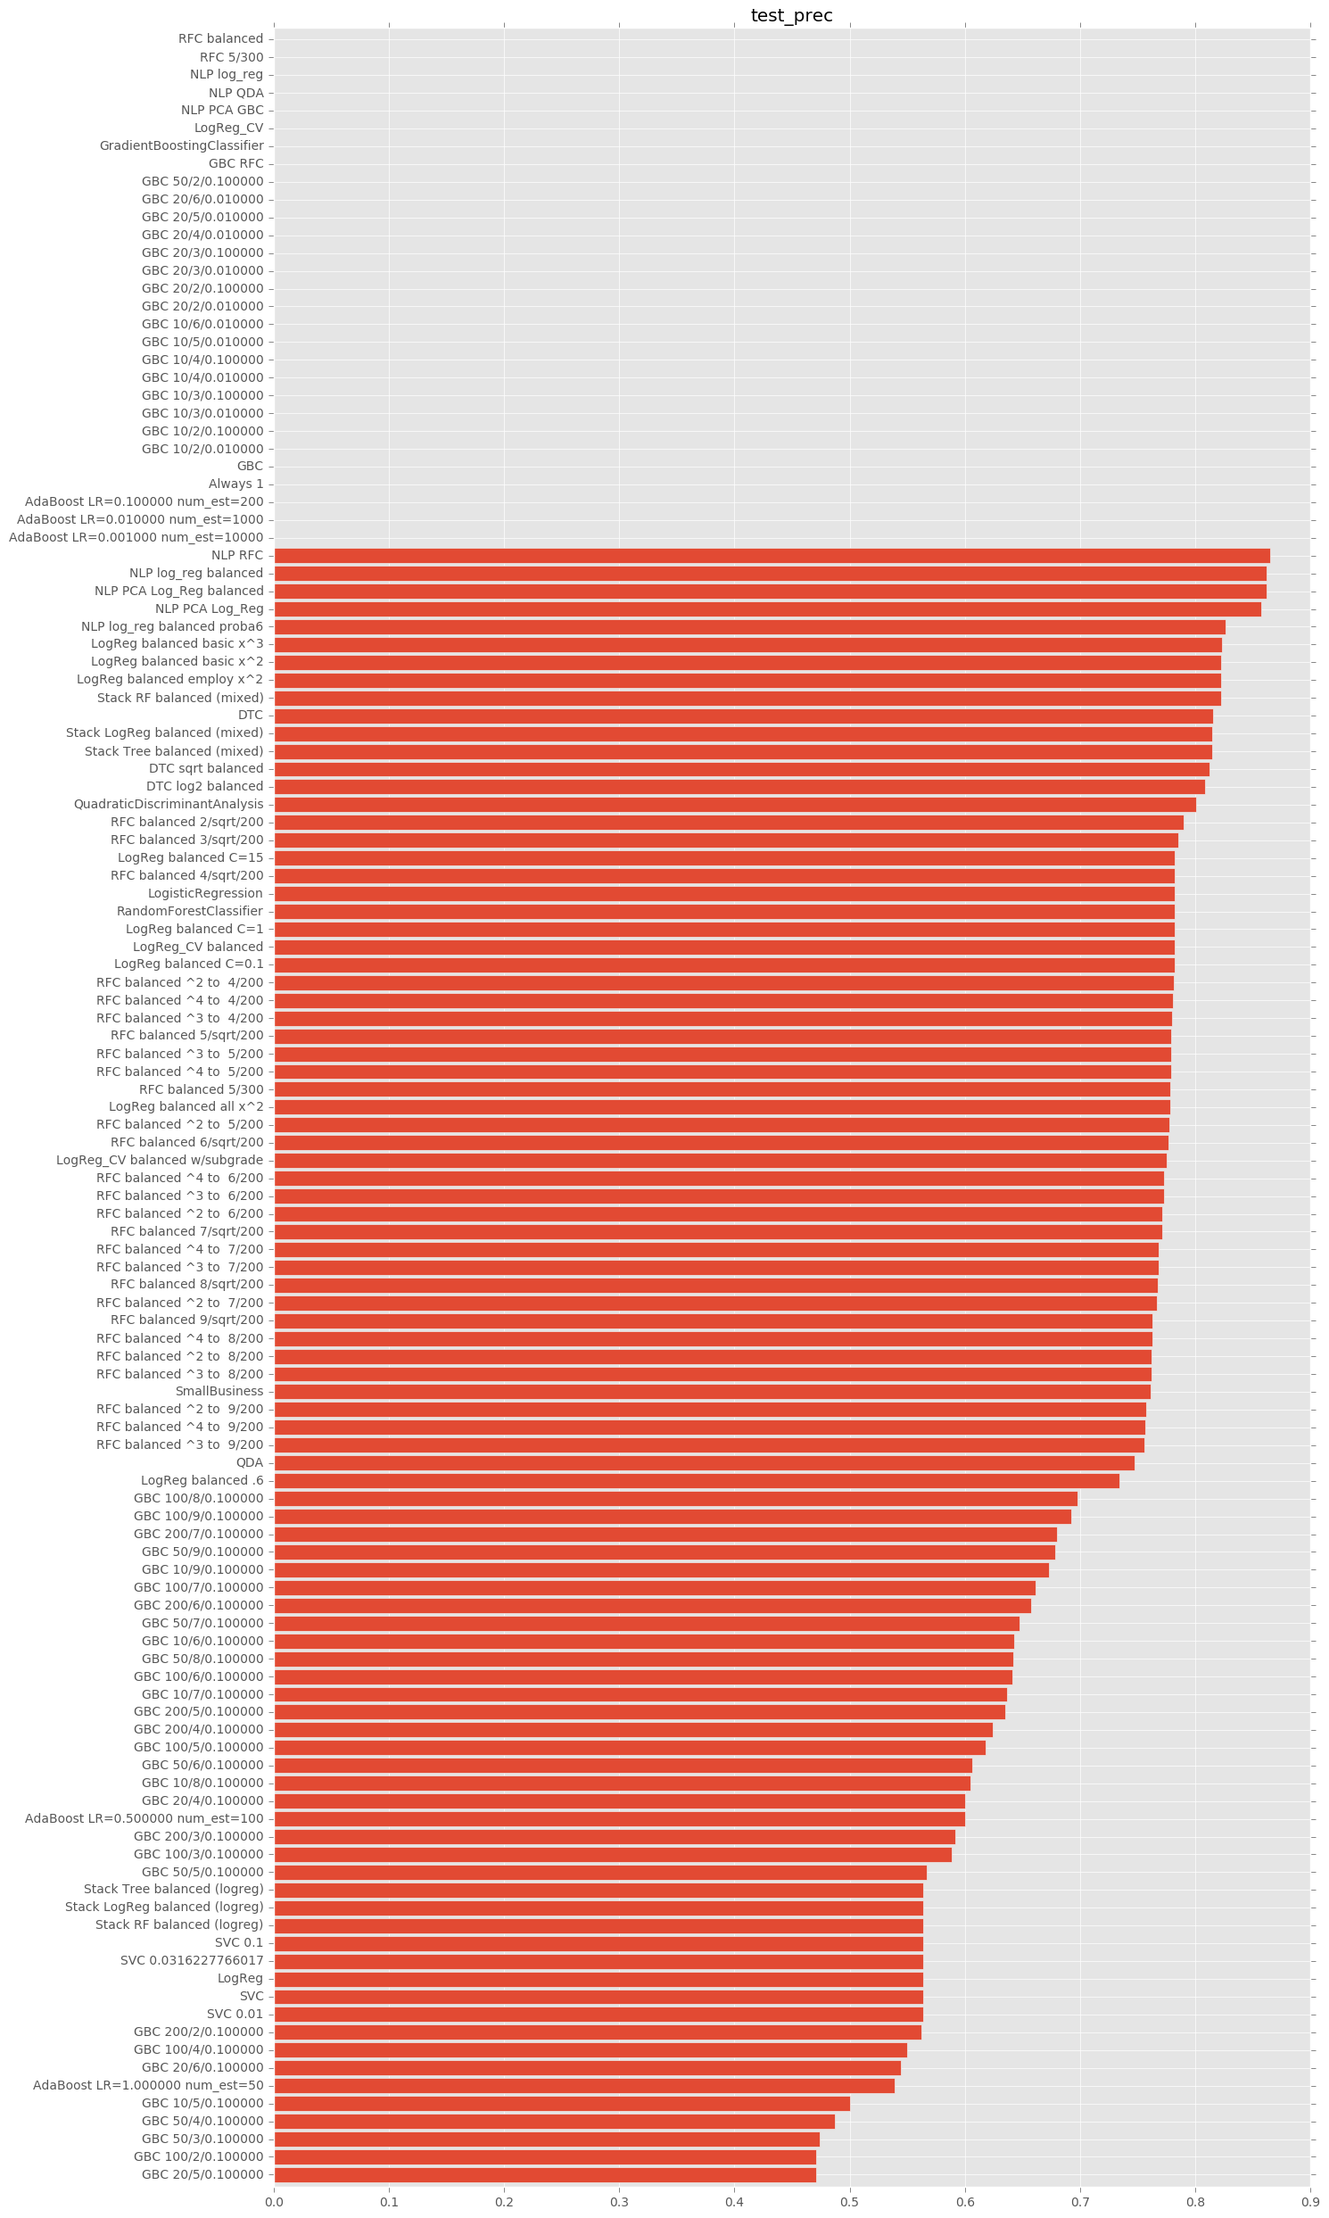
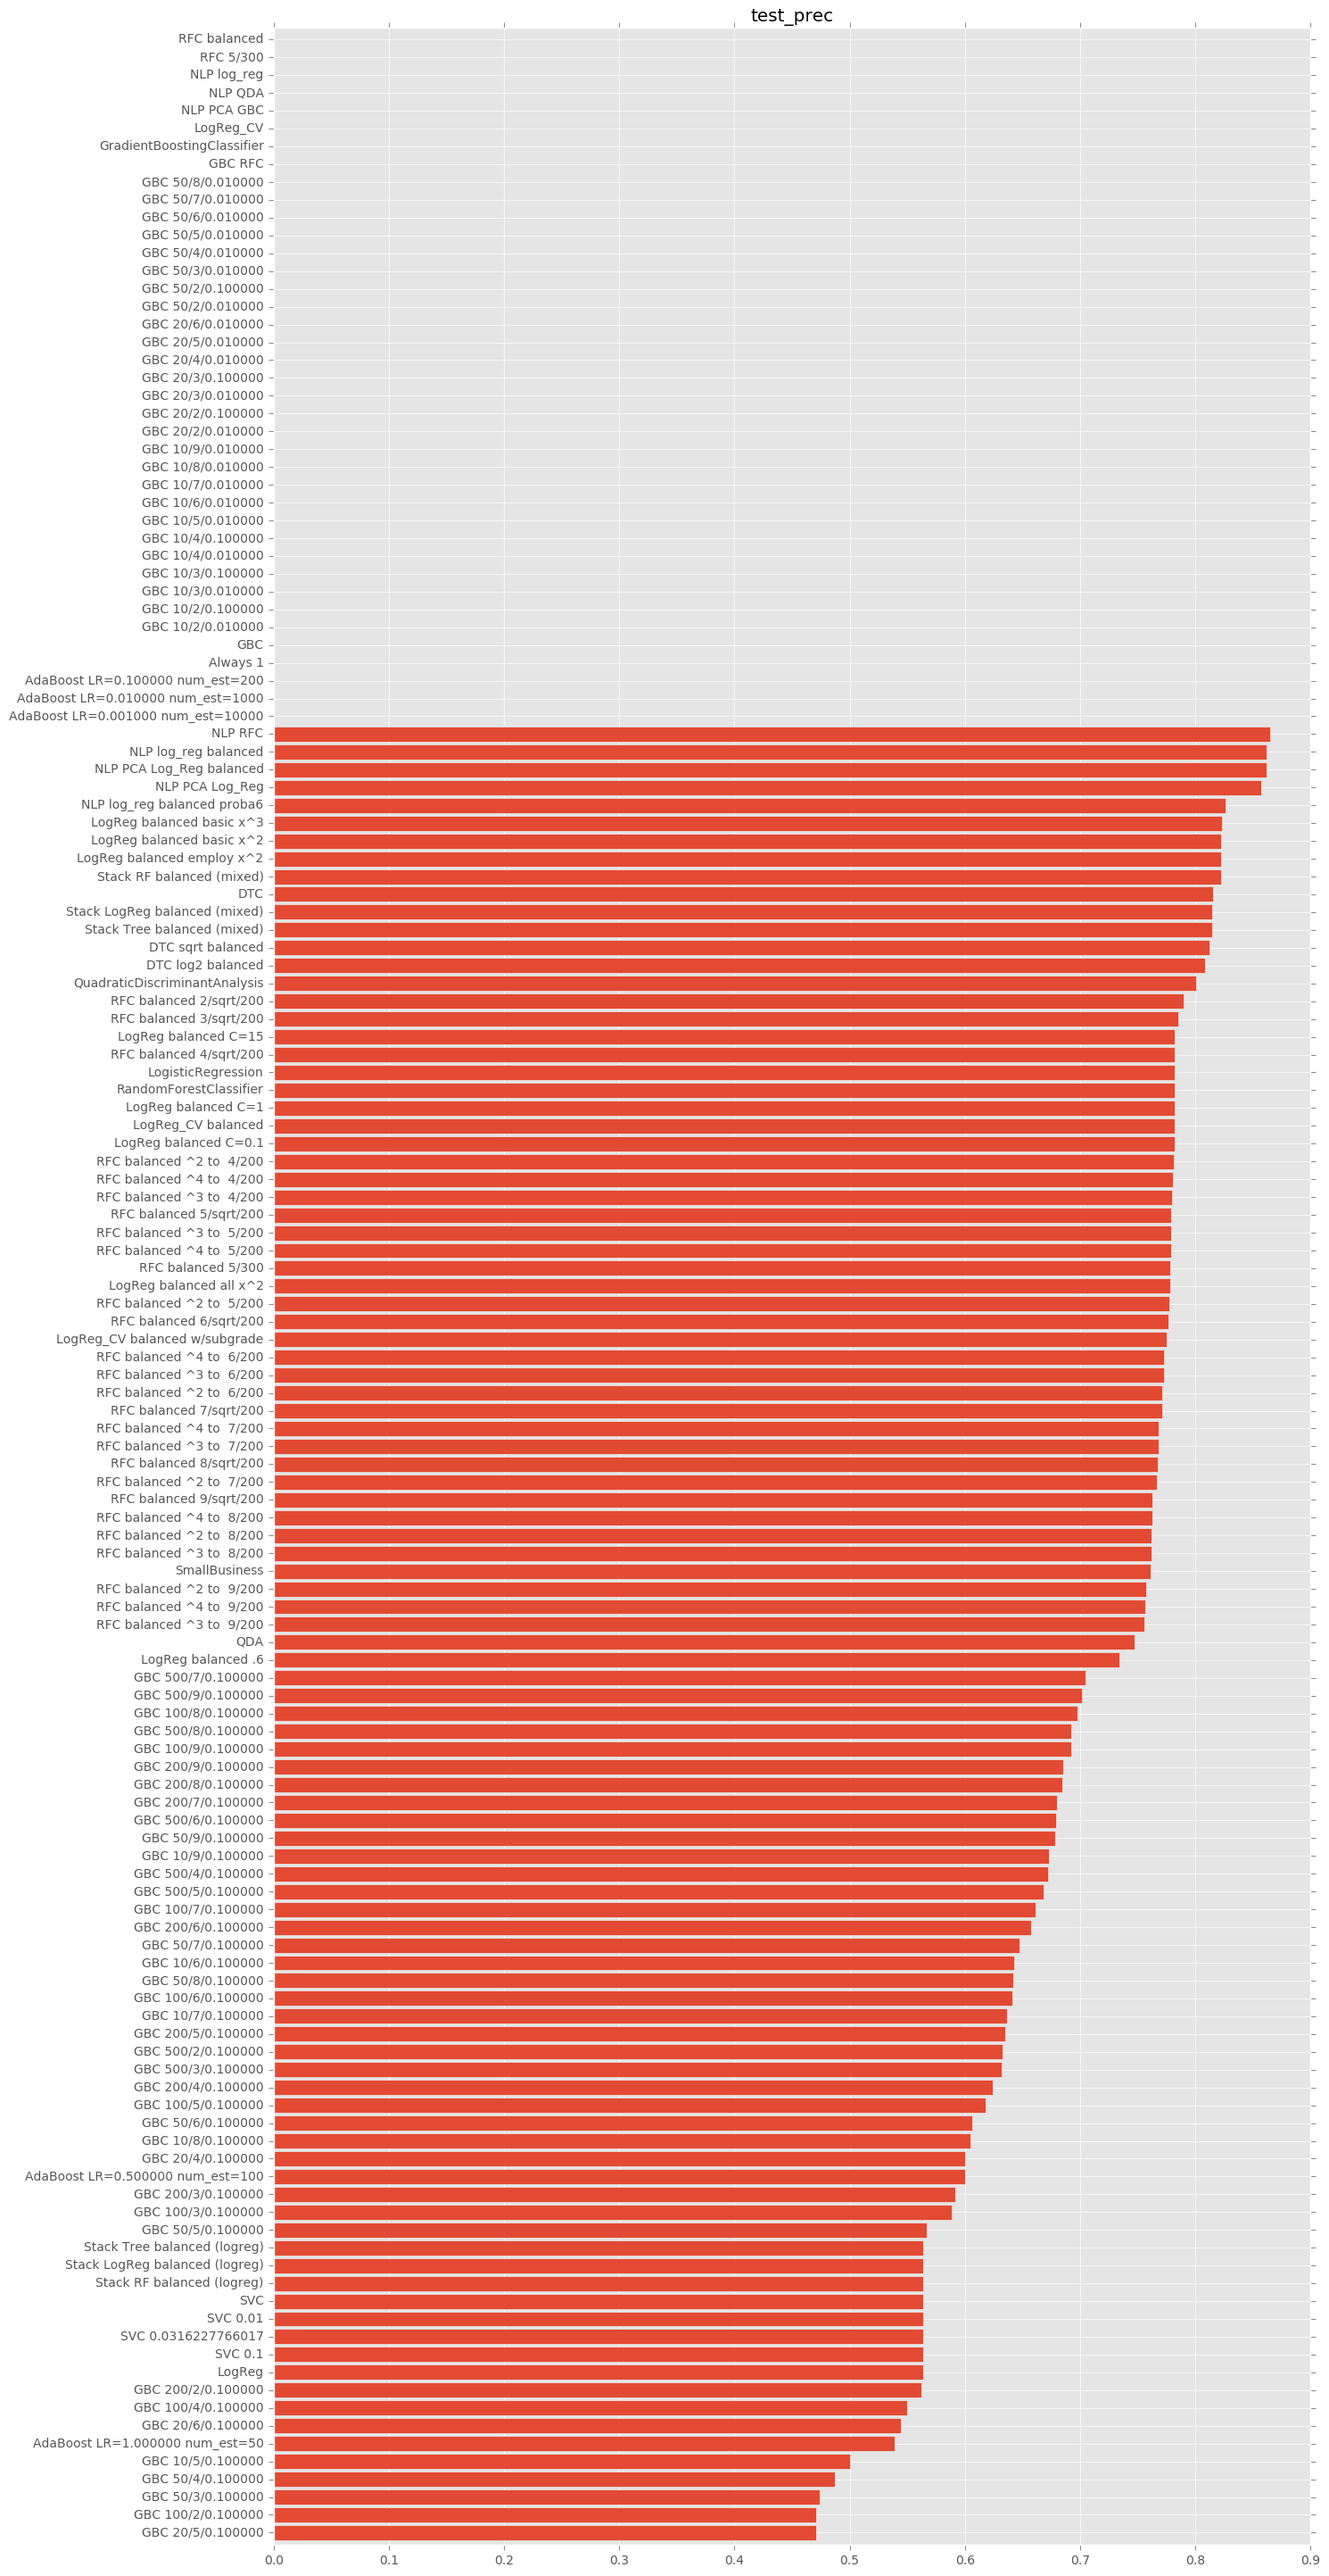
Update with latest models

diff --git a/docs/05-Analysis.html b/docs/05-Analysis.html
@@ -62,10 +62,15 @@
 <tr><th>GBC 10/5/0.100000</th><td>0.642</td><td>0.918</td><td>nan</td><td>0.848</td><td>0.000</td><td>0.500</td><td>0.848</td></tr>
 <tr><th>GBC 10/6/0.010000</th><td>0.607</td><td>0.918</td><td>nan</td><td>0.848</td><td>0.000</td><td>nan</td><td>0.848</td></tr>
 <tr><th>GBC 10/6/0.100000</th><td>0.642</td><td>0.918</td><td>nan</td><td>0.848</td><td>0.000</td><td>0.643</td><td>0.848</td></tr>
+<tr><th>GBC 10/7/0.010000</th><td>0.606</td><td>0.918</td><td>nan</td><td>0.848</td><td>0.000</td><td>nan</td><td>0.848</td></tr>
 <tr><th>GBC 10/7/0.100000</th><td>0.641</td><td>0.917</td><td>0.800</td><td>0.847</td><td>0.001</td><td>0.636</td><td>0.848</td></tr>
+<tr><th>GBC 10/8/0.010000</th><td>0.602</td><td>0.918</td><td>nan</td><td>0.848</td><td>0.000</td><td>nan</td><td>0.848</td></tr>
 <tr><th>GBC 10/8/0.100000</th><td>0.637</td><td>0.917</td><td>0.700</td><td>0.848</td><td>0.001</td><td>0.605</td><td>0.848</td></tr>
+<tr><th>GBC 10/9/0.010000</th><td>0.597</td><td>0.918</td><td>nan</td><td>0.848</td><td>0.000</td><td>nan</td><td>0.848</td></tr>
 <tr><th>GBC 10/9/0.100000</th><td>0.632</td><td>0.917</td><td>0.715</td><td>0.847</td><td>0.003</td><td>0.673</td><td>0.848</td></tr>
+<tr><th>GBC 100/2/0.010000</th><td>0.629</td><td>0.918</td><td>nan</td><td>0.848</td><td>0.000</td><td>nan</td><td>0.848</td></tr>
 <tr><th>GBC 100/2/0.100000</th><td class='better'>0.659</td><td>0.918</td><td>nan</td><td>0.848</td><td>0.000</td><td>0.471</td><td>0.848</td></tr>
+<tr><th>GBC 100/3/0.010000</th><td>0.638</td><td>0.918</td><td>nan</td><td>0.848</td><td>0.000</td><td>nan</td><td>0.848</td></tr>
 <tr><th>GBC 100/3/0.100000</th><td class='better'>0.662</td><td>0.918</td><td>0.467</td><td>0.848</td><td>0.002</td><td>0.588</td><td>0.848</td></tr>
 <tr><th>GBC 100/4/0.100000</th><td class='better'>0.661</td><td>0.917</td><td>0.562</td><td>0.847</td><td>0.004</td><td>0.550</td><td>0.848</td></tr>
 <tr><th>GBC 100/5/0.100000</th><td class='better'>0.659</td><td>0.916</td><td>0.641</td><td>0.846</td><td>0.009</td><td>0.618</td><td>0.847</td></tr>
@@ -89,14 +94,32 @@
 <tr><th>GBC 200/5/0.100000</th><td>0.656</td><td>0.916</td><td>0.638</td><td>0.845</td><td>0.015</td><td>0.635</td><td>0.846</td></tr>
 <tr><th>GBC 200/6/0.100000</th><td>0.649</td><td>0.914</td><td>0.677</td><td>0.843</td><td>0.020</td><td>0.657</td><td>0.844</td></tr>
 <tr><th>GBC 200/7/0.100000</th><td>0.646</td><td>0.913</td><td>0.712</td><td>0.841</td><td>0.023</td><td>0.680</td><td>0.843</td></tr>
+<tr><th>GBC 200/8/0.100000</th><td>0.639</td><td>0.913</td><td>0.698</td><td>0.841</td><td>0.027</td><td>0.684</td><td>0.842</td></tr>
+<tr><th>GBC 200/9/0.100000</th><td>0.633</td><td>0.914</td><td>0.677</td><td>0.842</td><td>0.027</td><td>0.685</td><td>0.842</td></tr>
+<tr><th>GBC 50/2/0.010000</th><td>0.615</td><td>0.918</td><td>nan</td><td>0.848</td><td>0.000</td><td>nan</td><td>0.848</td></tr>
 <tr><th>GBC 50/2/0.100000</th><td>0.654</td><td>0.918</td><td>nan</td><td>0.848</td><td>0.000</td><td>nan</td><td>0.848</td></tr>
+<tr><th>GBC 50/3/0.010000</th><td>0.631</td><td>0.918</td><td>nan</td><td>0.848</td><td>0.000</td><td>nan</td><td>0.848</td></tr>
 <tr><th>GBC 50/3/0.100000</th><td class='better'>0.658</td><td>0.918</td><td>0.350</td><td>0.848</td><td>0.000</td><td>0.474</td><td>0.848</td></tr>
+<tr><th>GBC 50/4/0.010000</th><td>0.634</td><td>0.918</td><td>nan</td><td>0.848</td><td>0.000</td><td>nan</td><td>0.848</td></tr>
 <tr><th>GBC 50/4/0.100000</th><td class='better'>0.659</td><td>0.917</td><td>0.633</td><td>0.848</td><td>0.001</td><td>0.487</td><td>0.848</td></tr>
+<tr><th>GBC 50/5/0.010000</th><td>0.639</td><td>0.918</td><td>nan</td><td>0.848</td><td>0.000</td><td>nan</td><td>0.848</td></tr>
 <tr><th>GBC 50/5/0.100000</th><td class='better'>0.658</td><td>0.917</td><td>0.612</td><td>0.847</td><td>0.004</td><td>0.567</td><td>0.848</td></tr>
+<tr><th>GBC 50/6/0.010000</th><td>0.640</td><td>0.918</td><td>nan</td><td>0.848</td><td>0.000</td><td>nan</td><td>0.848</td></tr>
 <tr><th>GBC 50/6/0.100000</th><td>0.656</td><td>0.916</td><td>0.680</td><td>0.846</td><td>0.007</td><td>0.607</td><td>0.847</td></tr>
+<tr><th>GBC 50/7/0.010000</th><td>0.638</td><td>0.918</td><td>nan</td><td>0.848</td><td>0.000</td><td>nan</td><td>0.848</td></tr>
 <tr><th>GBC 50/7/0.100000</th><td>0.652</td><td>0.916</td><td>0.737</td><td>0.845</td><td>0.010</td><td>0.647</td><td>0.846</td></tr>
+<tr><th>GBC 50/8/0.010000</th><td>0.636</td><td>0.918</td><td>nan</td><td>0.848</td><td>0.000</td><td>nan</td><td>0.848</td></tr>
 <tr><th>GBC 50/8/0.100000</th><td>0.648</td><td>0.916</td><td>0.676</td><td>0.845</td><td>0.013</td><td>0.642</td><td>0.846</td></tr>
+<tr><th>GBC 50/9/0.010000</th><td>0.633</td><td>0.918</td><td>nan</td><td>0.848</td><td>0.000</td><td>nan</td><td>0.848</td></tr>
 <tr><th>GBC 50/9/0.100000</th><td>0.642</td><td>0.915</td><td>0.655</td><td>0.844</td><td>0.017</td><td>0.679</td><td>0.844</td></tr>
+<tr><th>GBC 500/2/0.100000</th><td class='better'>0.664</td><td>0.917</td><td>0.603</td><td>0.847</td><td>0.005</td><td>0.633</td><td>0.848</td></tr>
+<tr><th>GBC 500/3/0.100000</th><td class='better'>0.660</td><td>0.916</td><td>0.635</td><td>0.845</td><td>0.011</td><td>0.632</td><td>0.846</td></tr>
+<tr><th>GBC 500/4/0.100000</th><td>0.653</td><td>0.914</td><td>0.635</td><td>0.843</td><td>0.020</td><td>0.672</td><td>0.844</td></tr>
+<tr><th>GBC 500/5/0.100000</th><td>0.647</td><td>0.913</td><td>0.691</td><td>0.840</td><td>0.026</td><td>0.668</td><td>0.843</td></tr>
+<tr><th>GBC 500/6/0.100000</th><td>0.638</td><td>0.911</td><td>0.712</td><td>0.838</td><td>0.031</td><td>0.679</td><td>0.841</td></tr>
+<tr><th>GBC 500/7/0.100000</th><td>0.630</td><td>0.911</td><td>0.704</td><td>0.838</td><td>0.035</td><td>0.705</td><td>0.840</td></tr>
+<tr><th>GBC 500/8/0.100000</th><td>0.625</td><td>0.912</td><td>0.711</td><td>0.839</td><td>0.032</td><td>0.692</td><td>0.841</td></tr>
+<tr><th>GBC 500/9/0.100000</th><td>0.615</td><td>0.913</td><td>0.719</td><td>0.840</td><td>0.029</td><td>0.701</td><td>0.841</td></tr>
 <tr><th>GBC RFC</th><td>0.496</td><td>0.925</td><td>nan</td><td>0.860</td><td>0.000</td><td>nan</td><td class='better'>0.863</td></tr>
 <tr><th>GradientBoostingClassifier</th><td>0.613</td><td>0.918</td><td>nan</td><td>0.848</td><td>0.000</td><td>nan</td><td>0.848</td></tr>
 <tr><th>LogReg</th><td>0.657</td><td>0.918</td><td>0.556</td><td>0.848</td><td>0.002</td><td>0.564</td><td>0.848</td></tr>

diff --git a/docs/model_performance.html b/docs/model_performance.html
@@ -18,10 +18,15 @@
 <tr><th>GBC 10/5/0.100000</th><td>0.642</td><td>0.918</td><td>nan</td><td>0.848</td><td>0.000</td><td>0.500</td><td>0.848</td></tr>
 <tr><th>GBC 10/6/0.010000</th><td>0.607</td><td>0.918</td><td>nan</td><td>0.848</td><td>0.000</td><td>nan</td><td>0.848</td></tr>
 <tr><th>GBC 10/6/0.100000</th><td>0.642</td><td>0.918</td><td>nan</td><td>0.848</td><td>0.000</td><td>0.643</td><td>0.848</td></tr>
+<tr><th>GBC 10/7/0.010000</th><td>0.606</td><td>0.918</td><td>nan</td><td>0.848</td><td>0.000</td><td>nan</td><td>0.848</td></tr>
 <tr><th>GBC 10/7/0.100000</th><td>0.641</td><td>0.917</td><td>0.800</td><td>0.847</td><td>0.001</td><td>0.636</td><td>0.848</td></tr>
+<tr><th>GBC 10/8/0.010000</th><td>0.602</td><td>0.918</td><td>nan</td><td>0.848</td><td>0.000</td><td>nan</td><td>0.848</td></tr>
 <tr><th>GBC 10/8/0.100000</th><td>0.637</td><td>0.917</td><td>0.700</td><td>0.848</td><td>0.001</td><td>0.605</td><td>0.848</td></tr>
+<tr><th>GBC 10/9/0.010000</th><td>0.597</td><td>0.918</td><td>nan</td><td>0.848</td><td>0.000</td><td>nan</td><td>0.848</td></tr>
 <tr><th>GBC 10/9/0.100000</th><td>0.632</td><td>0.917</td><td>0.715</td><td>0.847</td><td>0.003</td><td>0.673</td><td>0.848</td></tr>
+<tr><th>GBC 100/2/0.010000</th><td>0.629</td><td>0.918</td><td>nan</td><td>0.848</td><td>0.000</td><td>nan</td><td>0.848</td></tr>
 <tr><th>GBC 100/2/0.100000</th><td class='better'>0.659</td><td>0.918</td><td>nan</td><td>0.848</td><td>0.000</td><td>0.471</td><td>0.848</td></tr>
+<tr><th>GBC 100/3/0.010000</th><td>0.638</td><td>0.918</td><td>nan</td><td>0.848</td><td>0.000</td><td>nan</td><td>0.848</td></tr>
 <tr><th>GBC 100/3/0.100000</th><td class='better'>0.662</td><td>0.918</td><td>0.467</td><td>0.848</td><td>0.002</td><td>0.588</td><td>0.848</td></tr>
 <tr><th>GBC 100/4/0.100000</th><td class='better'>0.661</td><td>0.917</td><td>0.562</td><td>0.847</td><td>0.004</td><td>0.550</td><td>0.848</td></tr>
 <tr><th>GBC 100/5/0.100000</th><td class='better'>0.659</td><td>0.916</td><td>0.641</td><td>0.846</td><td>0.009</td><td>0.618</td><td>0.847</td></tr>
@@ -45,14 +50,32 @@
 <tr><th>GBC 200/5/0.100000</th><td>0.656</td><td>0.916</td><td>0.638</td><td>0.845</td><td>0.015</td><td>0.635</td><td>0.846</td></tr>
 <tr><th>GBC 200/6/0.100000</th><td>0.649</td><td>0.914</td><td>0.677</td><td>0.843</td><td>0.020</td><td>0.657</td><td>0.844</td></tr>
 <tr><th>GBC 200/7/0.100000</th><td>0.646</td><td>0.913</td><td>0.712</td><td>0.841</td><td>0.023</td><td>0.680</td><td>0.843</td></tr>
+<tr><th>GBC 200/8/0.100000</th><td>0.639</td><td>0.913</td><td>0.698</td><td>0.841</td><td>0.027</td><td>0.684</td><td>0.842</td></tr>
+<tr><th>GBC 200/9/0.100000</th><td>0.633</td><td>0.914</td><td>0.677</td><td>0.842</td><td>0.027</td><td>0.685</td><td>0.842</td></tr>
+<tr><th>GBC 50/2/0.010000</th><td>0.615</td><td>0.918</td><td>nan</td><td>0.848</td><td>0.000</td><td>nan</td><td>0.848</td></tr>
 <tr><th>GBC 50/2/0.100000</th><td>0.654</td><td>0.918</td><td>nan</td><td>0.848</td><td>0.000</td><td>nan</td><td>0.848</td></tr>
+<tr><th>GBC 50/3/0.010000</th><td>0.631</td><td>0.918</td><td>nan</td><td>0.848</td><td>0.000</td><td>nan</td><td>0.848</td></tr>
 <tr><th>GBC 50/3/0.100000</th><td class='better'>0.658</td><td>0.918</td><td>0.350</td><td>0.848</td><td>0.000</td><td>0.474</td><td>0.848</td></tr>
+<tr><th>GBC 50/4/0.010000</th><td>0.634</td><td>0.918</td><td>nan</td><td>0.848</td><td>0.000</td><td>nan</td><td>0.848</td></tr>
 <tr><th>GBC 50/4/0.100000</th><td class='better'>0.659</td><td>0.917</td><td>0.633</td><td>0.848</td><td>0.001</td><td>0.487</td><td>0.848</td></tr>
+<tr><th>GBC 50/5/0.010000</th><td>0.639</td><td>0.918</td><td>nan</td><td>0.848</td><td>0.000</td><td>nan</td><td>0.848</td></tr>
 <tr><th>GBC 50/5/0.100000</th><td class='better'>0.658</td><td>0.917</td><td>0.612</td><td>0.847</td><td>0.004</td><td>0.567</td><td>0.848</td></tr>
+<tr><th>GBC 50/6/0.010000</th><td>0.640</td><td>0.918</td><td>nan</td><td>0.848</td><td>0.000</td><td>nan</td><td>0.848</td></tr>
 <tr><th>GBC 50/6/0.100000</th><td>0.656</td><td>0.916</td><td>0.680</td><td>0.846</td><td>0.007</td><td>0.607</td><td>0.847</td></tr>
+<tr><th>GBC 50/7/0.010000</th><td>0.638</td><td>0.918</td><td>nan</td><td>0.848</td><td>0.000</td><td>nan</td><td>0.848</td></tr>
 <tr><th>GBC 50/7/0.100000</th><td>0.652</td><td>0.916</td><td>0.737</td><td>0.845</td><td>0.010</td><td>0.647</td><td>0.846</td></tr>
+<tr><th>GBC 50/8/0.010000</th><td>0.636</td><td>0.918</td><td>nan</td><td>0.848</td><td>0.000</td><td>nan</td><td>0.848</td></tr>
 <tr><th>GBC 50/8/0.100000</th><td>0.648</td><td>0.916</td><td>0.676</td><td>0.845</td><td>0.013</td><td>0.642</td><td>0.846</td></tr>
+<tr><th>GBC 50/9/0.010000</th><td>0.633</td><td>0.918</td><td>nan</td><td>0.848</td><td>0.000</td><td>nan</td><td>0.848</td></tr>
 <tr><th>GBC 50/9/0.100000</th><td>0.642</td><td>0.915</td><td>0.655</td><td>0.844</td><td>0.017</td><td>0.679</td><td>0.844</td></tr>
+<tr><th>GBC 500/2/0.100000</th><td class='better'>0.664</td><td>0.917</td><td>0.603</td><td>0.847</td><td>0.005</td><td>0.633</td><td>0.848</td></tr>
+<tr><th>GBC 500/3/0.100000</th><td class='better'>0.660</td><td>0.916</td><td>0.635</td><td>0.845</td><td>0.011</td><td>0.632</td><td>0.846</td></tr>
+<tr><th>GBC 500/4/0.100000</th><td>0.653</td><td>0.914</td><td>0.635</td><td>0.843</td><td>0.020</td><td>0.672</td><td>0.844</td></tr>
+<tr><th>GBC 500/5/0.100000</th><td>0.647</td><td>0.913</td><td>0.691</td><td>0.840</td><td>0.026</td><td>0.668</td><td>0.843</td></tr>
+<tr><th>GBC 500/6/0.100000</th><td>0.638</td><td>0.911</td><td>0.712</td><td>0.838</td><td>0.031</td><td>0.679</td><td>0.841</td></tr>
+<tr><th>GBC 500/7/0.100000</th><td>0.630</td><td>0.911</td><td>0.704</td><td>0.838</td><td>0.035</td><td>0.705</td><td>0.840</td></tr>
+<tr><th>GBC 500/8/0.100000</th><td>0.625</td><td>0.912</td><td>0.711</td><td>0.839</td><td>0.032</td><td>0.692</td><td>0.841</td></tr>
+<tr><th>GBC 500/9/0.100000</th><td>0.615</td><td>0.913</td><td>0.719</td><td>0.840</td><td>0.029</td><td>0.701</td><td>0.841</td></tr>
 <tr><th>GBC RFC</th><td>0.496</td><td>0.925</td><td>nan</td><td>0.860</td><td>0.000</td><td>nan</td><td class='better'>0.863</td></tr>
 <tr><th>GradientBoostingClassifier</th><td>0.613</td><td>0.918</td><td>nan</td><td>0.848</td><td>0.000</td><td>nan</td><td>0.848</td></tr>
 <tr><th>LogReg</th><td>0.657</td><td>0.918</td><td>0.556</td><td>0.848</td><td>0.002</td><td>0.564</td><td>0.848</td></tr>
